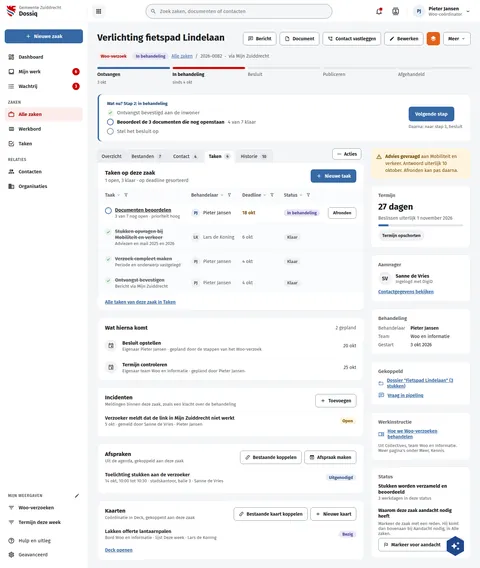
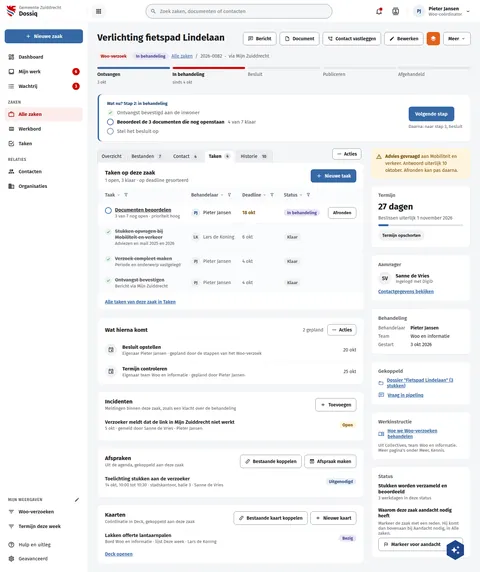
feat(screens): DqZaakTaken's Wat hierna komt card carries its Acties menu, as live shows it (#333)
Ruben 21 Oct: the boards gain the live-only card actions. Live draws an
Acties menu (with Toevoegen) in the title row of the planned actions card;
the board now draws it beside "2 gepland".

Assisted-by: ClaudeCode:claude-opus-5-5

diff --git a/preview/screens/boards/DqZaakTaken.html b/preview/screens/boards/DqZaakTaken.html
@@ -284,7 +284,7 @@ a{color:var(--sc-primary, #3669a5)}a:hover{color:var(--sc-primary-deep, #234a78)
               <div style="padding: 4px 22px 8px; font-size: 14px"><a href="#" style="font-weight: 600">Alle taken van deze zaak in Taken</a></div>
             </section>
             <section style="background: #ffffff; border: 1px solid var(--sc-work-line, #e4e6ea); border-radius: 12px; padding: 20px 22px 8px; display: flex; flex-direction: column; gap: 4px">
-              <div style="display: flex; justify-content: space-between; align-items: center; gap: 12px; margin-bottom: 8px"><h2 style="margin: 0; font-size: 17px; font-weight: 700">Wat hierna komt</h2><span style="font-size: 14px; color: var(--sc-work-muted, #5e6168)">2 gepland</span></div>
+              <div style="display: flex; justify-content: space-between; align-items: center; gap: 12px; margin-bottom: 8px"><h2 style="margin: 0; font-size: 17px; font-weight: 700">Wat hierna komt</h2><span style="display: inline-flex; align-items: center; gap: 12px"><span style="font-size: 14px; color: var(--sc-work-muted, #5e6168)">2 gepland</span><button type="button" aria-haspopup="menu" style="flex: none; display: inline-flex; align-items: center; gap: 6px; min-height: 34px; padding: 0 12px; border: 1px solid var(--sc-work-field, #828a95); border-radius: 8px; background: #ffffff; font: 600 14px var(--sc-font, 'Fira Sans'), sans-serif; color: var(--sc-work-ink, #1b1c1d)"><svg width="16" height="16" viewbox="0 0 24 24" fill="currentColor" aria-hidden="true"><path d="M16,12A2,2 0 0,1 18,10A2,2 0 0,1 20,12A2,2 0 0,1 18,14A2,2 0 0,1 16,12M10,12A2,2 0 0,1 12,10A2,2 0 0,1 14,12A2,2 0 0,1 12,14A2,2 0 0,1 10,12M4,12A2,2 0 0,1 6,10A2,2 0 0,1 8,12A2,2 0 0,1 6,14A2,2 0 0,1 4,12Z"></path></svg>Acties</button></span></div>
               
                 <div style="display: flex; flex-wrap: wrap; gap: 8px 16px; align-items: center; padding: 12px 0; border-top: 1px solid var(--sc-work-soft, #eef0f3)">
                   <span style="width: 36px; height: 36px; flex: none; border-radius: 18px; background: var(--sc-work-chip, #f0f1f3); color: var(--sc-work-text, #3d4047); display: flex; align-items: center; justify-content: center"><svg width="18" height="18" viewbox="0 0 24 24" fill="currentColor" aria-hidden="true"><path d="M12 12H17V17H12V12M19 3H18V1H16V3H8V1H6V3H5C3.9 3 3 3.9 3 5V19C3 20.1 3.9 21 5 21H19C20.1 21 21 20.1 21 19V5C21 3.9 20.1 3 19 3M19 5V7H5V5H19M5 19V9H19V19H5Z"></path></svg></span>

diff --git a/screens-src/zuiddrecht/DqZaakTaken.dc.html b/screens-src/zuiddrecht/DqZaakTaken.dc.html
@@ -110,7 +110,7 @@ a{color:#3669a5}a:hover{color:#234a78}
               <div style="padding: 4px 22px 8px; font-size: 14px"><a href="#" style="font-weight: 600">Alle taken van deze zaak in Taken</a></div>
             </section>
             <section style="background: #ffffff; border: 1px solid #e4e6ea; border-radius: 12px; padding: 20px 22px 8px; display: flex; flex-direction: column; gap: 4px">
-              <div style="display: flex; justify-content: space-between; align-items: center; gap: 12px; margin-bottom: 8px"><h2 style="margin: 0; font-size: 17px; font-weight: 700">Wat hierna komt</h2><span style="font-size: 14px; color: #5e6168">2 gepland</span></div>
+              <div style="display: flex; justify-content: space-between; align-items: center; gap: 12px; margin-bottom: 8px"><h2 style="margin: 0; font-size: 17px; font-weight: 700">Wat hierna komt</h2><span style="display: inline-flex; align-items: center; gap: 12px"><span style="font-size: 14px; color: #5e6168">2 gepland</span><button type="button" aria-haspopup="menu" style="flex: none; display: inline-flex; align-items: center; gap: 6px; min-height: 34px; padding: 0 12px; border: 1px solid #828a95; border-radius: 8px; background: #ffffff; font: 600 14px 'Fira Sans', sans-serif; color: #1b1c1d"><svg width="16" height="16" viewBox="0 0 24 24" fill="currentColor" aria-hidden="true"><path d="M16,12A2,2 0 0,1 18,10A2,2 0 0,1 20,12A2,2 0 0,1 18,14A2,2 0 0,1 16,12M10,12A2,2 0 0,1 12,10A2,2 0 0,1 14,12A2,2 0 0,1 12,14A2,2 0 0,1 10,12M4,12A2,2 0 0,1 6,10A2,2 0 0,1 8,12A2,2 0 0,1 6,14A2,2 0 0,1 4,12Z"></path></svg>Acties</button></span></div>
               <sc-for list="{{ planned }}" as="p" hint-placeholder-count="2">
                 <div style="display: flex; flex-wrap: wrap; gap: 8px 16px; align-items: center; padding: 12px 0; border-top: 1px solid #eef0f3">
                   <span style="width: 36px; height: 36px; flex: none; border-radius: 18px; background: #f0f1f3; color: #3d4047; display: flex; align-items: center; justify-content: center"><svg width="18" height="18" viewBox="0 0 24 24" fill="currentColor" aria-hidden="true"><path d="M12 12H17V17H12V12M19 3H18V1H16V3H8V1H6V3H5C3.9 3 3 3.9 3 5V19C3 20.1 3.9 21 5 21H19C20.1 21 21 20.1 21 19V5C21 3.9 20.1 3 19 3M19 5V7H5V5H19M5 19V9H19V19H5Z"></path></svg></span>
